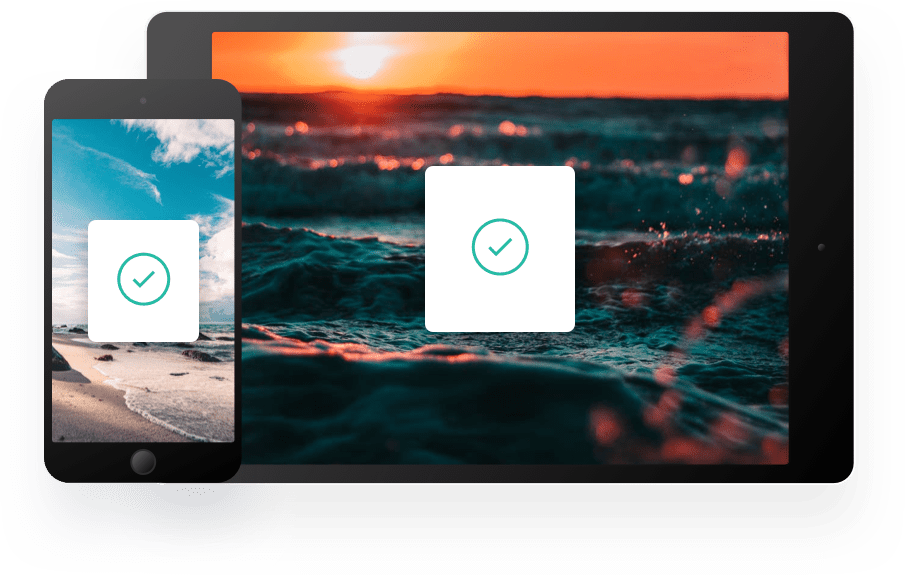
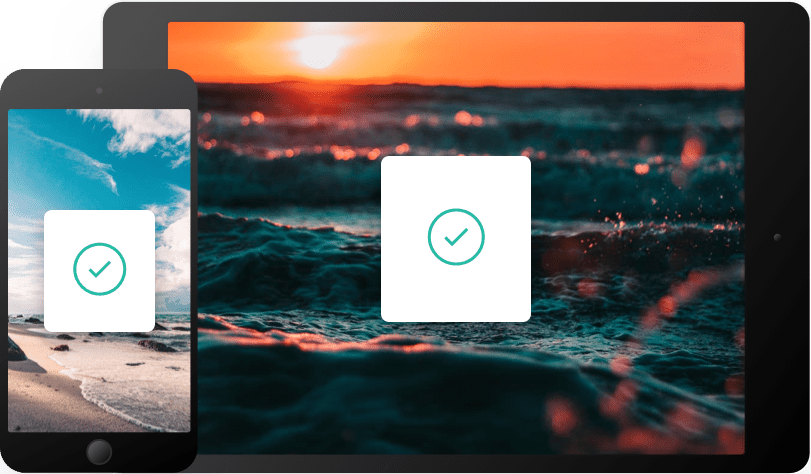
corrigiendo detalles section #2

diff --git a/index.html b/index.html
@@ -30,7 +30,7 @@
         <header class="section__header">
           <img src="images/logo.svg" alt="Logo" class="header__logo" />
         </header>
-        <article class="section__article">
+        <article class="section__article section__article--withpd">
           <h1 class="section__title">A history of everything you copy</h1>
           <p class="section__paragraph">
             Clipboard allows you to track and organize everything you copy.
@@ -88,7 +88,7 @@
           Whether you're on the go, or at your computer, you can access all your
           Clipboard snippets in a few simple clicks.
         </p>
-        <img src="images/image-devices.png" alt="" />
+        <img src="images/image-devices.png" alt="" class="section__img--full"/>
       </section>
 
       <section class="section"><!--Empieza section #4-->
@@ -148,9 +148,8 @@
         <p class="footer__paragraph">
           Challenge by
           <a href="https://www.frontendmentor.io?ref=challenge" target="_blank">
-            Frontend Mentor
-          </a>.
-          Coded by
+            Frontend Mentor</a>.</p>
+          <p>Coded by
           <a href="#">Your Name Here</a>.
         </p>
       </footer>

diff --git a/styles.css b/styles.css
@@ -36,9 +36,11 @@ footer{
     align-items: center;
     justify-content: space-between;
     text-align: center;
+    padding: 30px;
 }
 .section:nth-of-type(1){
     min-height: 100vh;
+    padding: 0;
 }
 .section__header{
     display: flex;
@@ -58,6 +60,8 @@ footer{
     flex-direction: column;
     align-items: center;
     gap: 17px;
+}
+.section__article--withpd{
     padding: 30px;
 }
 .section__title{
@@ -104,7 +108,7 @@ footer{
     min-height: 100vh;
     align-items: center;
     justify-content: center;
-    gap: 30px;
+    gap: 60px;
 }
 img{
     width: 110px;
@@ -115,20 +119,19 @@ img{
     color: var(--dark-grayish-blue);
 }
 .section__img{
-    width: 90%;
+    width: 100%;
 }
 .section__feature{
     display: flex;
     flex-direction: column;
     align-items: center;
     gap: 10px;
-    width: 90%;
-}
-.section__feature,
-.section__img{
-    padding: 15px;
+    width: 100%;
 }
 .section__feature-title{
     font-size: 1.4rem;
     color: var(--dark-grayish-blue);
+}
+.section__img--full{
+    width: 100%;
 }
